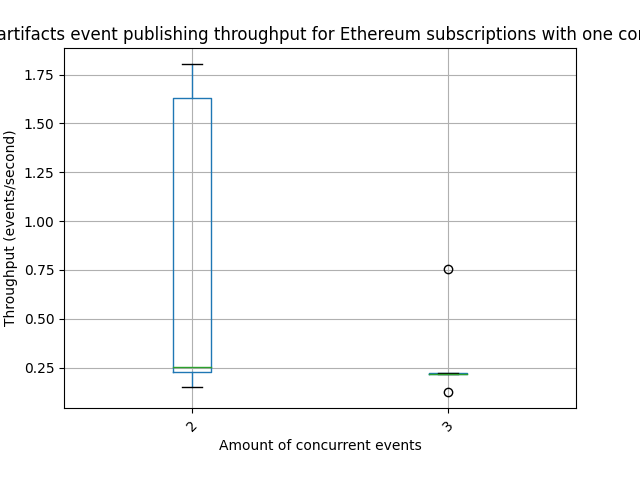
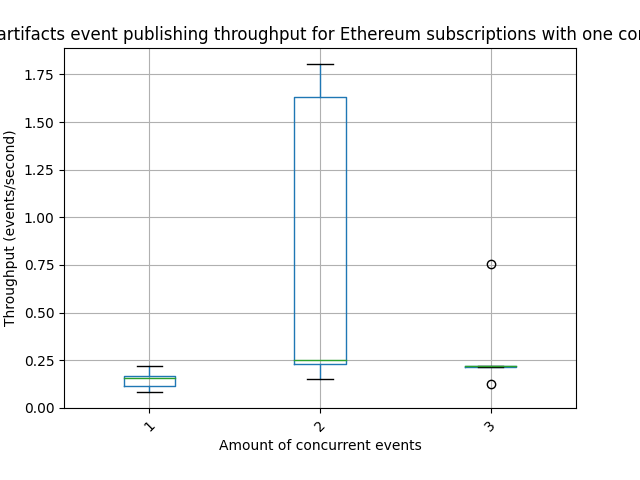
visualization

diff --git a/caseStudies/visualizePerformanceTestResults.py b/caseStudies/visualizePerformanceTestResults.py
@@ -44,14 +44,14 @@ def main():
     plt.suptitle("")
     plt.ylabel("Latency in second/event")
     plt.xlabel("Amount of oracle subscriptions")
-    plt.savefig("inboundOraclePerformanceTests/ethereumSubscriptionsLatency.png")
+    plt.savefig("inboundOraclePerformanceTests/hyperledgerSubscriptionsLatency.png")
 
     plt.xticks(rotation=45)
     plt.title("Boxplot of the artifacts event publishing throughput for Hyperledger Fabric subscriptions with one concurrent event ")
     plt.suptitle("")
     plt.xlabel("Amount of concurrent events")
     plt.ylabel("Throughput (events/second)")
-    plt.savefig("inboundOraclePerformanceTests/ethereumSubscriptionsThroughput.png")
+    plt.savefig("inboundOraclePerformanceTests/hyperledgerSubscriptionsThroughput.png")
 
     file_path = file_paths[4]
     df = pandas.read_csv(file_path)
@@ -70,7 +70,7 @@ def main():
     plt.xlabel("Amount of concurrent events")
     plt.savefig(file_path[:-4]+"Latency.png")
     
-    df = read_merged_files(file_paths[4:])
+    df = read_merged_files(file_paths[3:])
     df = df[df["parallel events"] == 1]
     df.boxplot(column="latency", by="subscriptions")
     plt.title("Boxplot of the artifacts event publishing latency for Ethereum subscriptions with one concurrent event")
